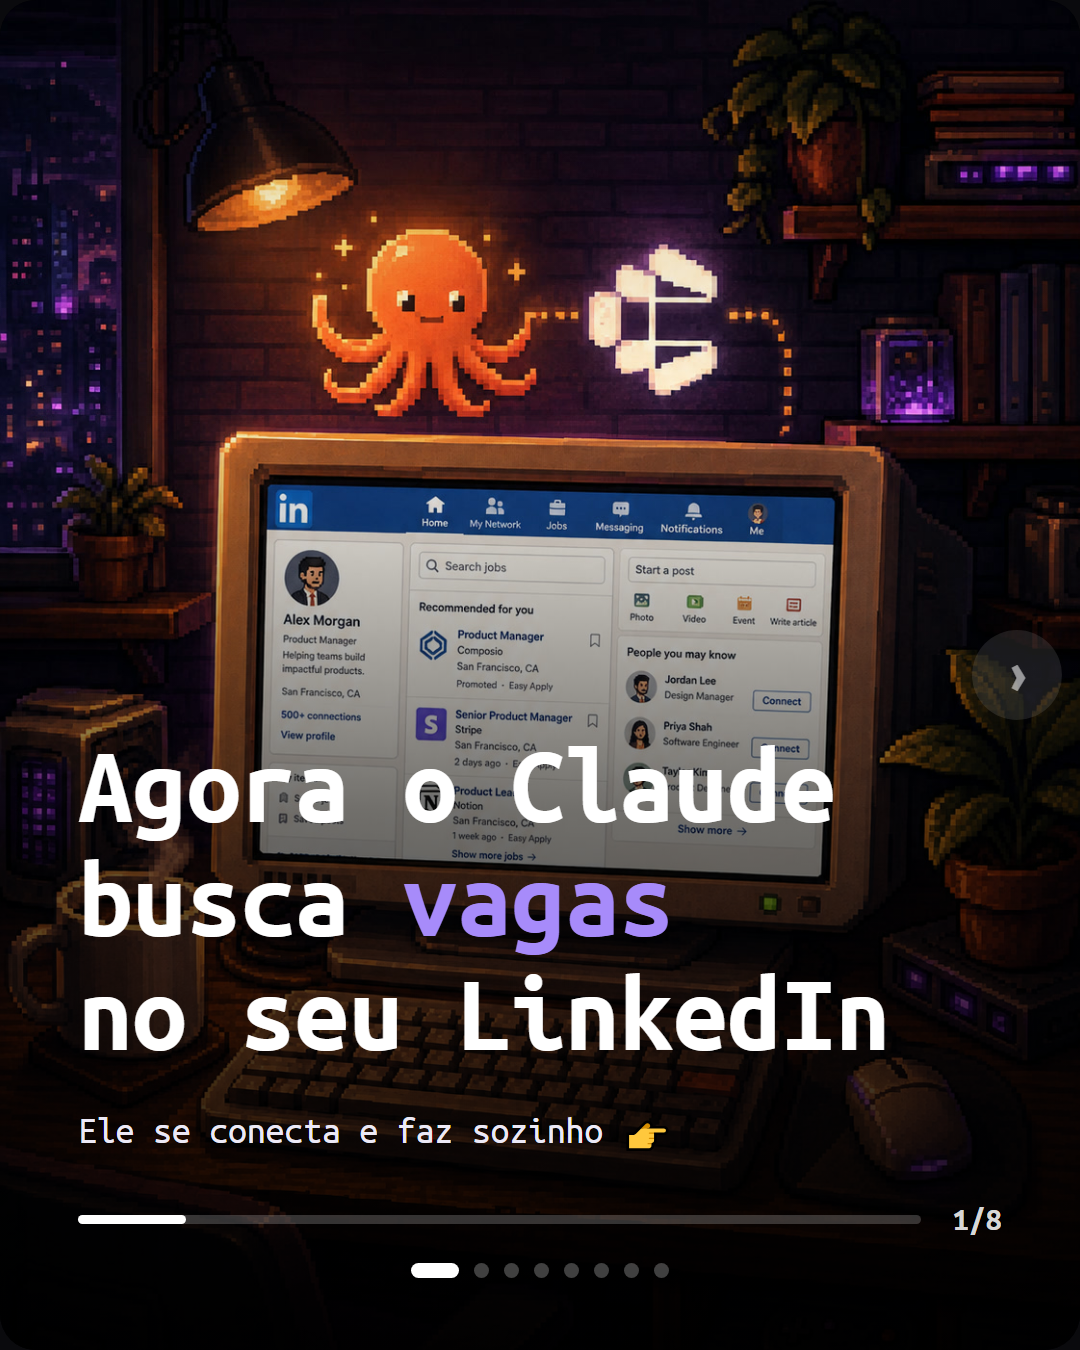
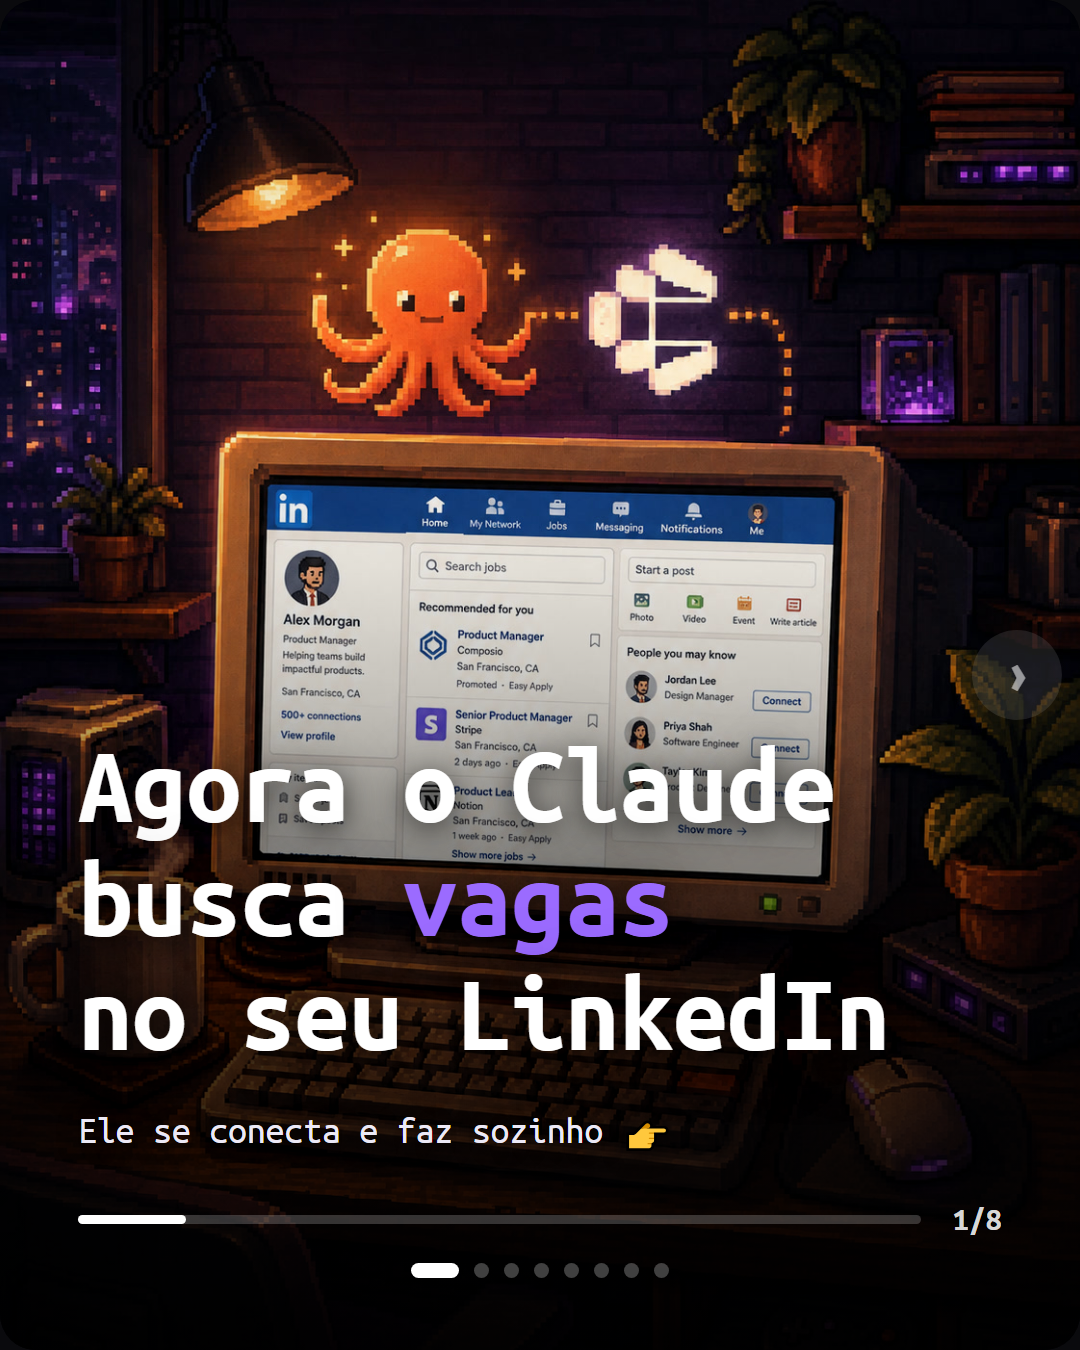
fix(dobro): capa legivel sobre arte clara (scrim em rampa + destaque mais forte)
O scrim da capa tinha poucas paradas e marcava a faixa onde o preto entrava,
o que aparecia em arte de fundo clara. Rampa mais longa, com paradas proximas,
e o rodape segue escuro o bastante pro texto branco.

O lilas do destaque tambem sumia sobre arte clara: na capa ele passa a usar um
roxo mais forte, com sombra atras do h1 e do corpo.

Inclui as capas re-renderizadas e a capa nova das 4 skills (v1 guardada ao lado).

diff --git a/apps/dobro/server/carrossel/template.ts b/apps/dobro/server/carrossel/template.ts
@@ -18,7 +18,10 @@ const CSS = `
   .slide{width:360px;height:450px;position:relative;overflow:hidden;border-radius:12px;display:flex;flex-direction:column;padding:24px 26px;}
   .dark{background:#191426;} .light{background:#eae7f5;} .purple{background:#7c46d6;} .photo{background:#000;}
   .imgbg{position:absolute;inset:0;background-size:cover;background-position:center 26%;}
-  .scrim{position:absolute;inset:0;background:linear-gradient(to bottom,rgba(0,0,0,.12) 0%,rgba(0,0,0,0) 30%,rgba(0,0,0,.55) 60%,rgba(0,0,0,.93) 100%);}
+  /* escurecido da capa: rampa longa e com paradas próximas, pra não marcar a
+     faixa onde o preto entra (aparecia em arte de fundo claro). O rodapé segue
+     escuro o bastante pro texto branco. */
+  .scrim{position:absolute;inset:0;background:linear-gradient(to bottom,rgba(0,0,0,.10) 0%,rgba(0,0,0,0) 26%,rgba(0,0,0,.09) 42%,rgba(0,0,0,.26) 55%,rgba(0,0,0,.52) 68%,rgba(0,0,0,.76) 82%,rgba(0,0,0,.90) 100%);}
   .topbleed{position:absolute;top:0;left:0;right:0;height:120px;background-size:cover;background-position:center 20%;opacity:.28;filter:blur(1px);
     -webkit-mask-image:linear-gradient(to bottom,#000 0%,#000 30%,transparent 100%);mask-image:linear-gradient(to bottom,#000 0%,#000 30%,transparent 100%);}
   .eyebrow{font-size:10.5px;font-weight:700;letter-spacing:.2em;text-transform:uppercase;margin-bottom:10px;position:relative;z-index:2;}
@@ -27,8 +30,12 @@ const CSS = `
   .dark h1,.photo h1,.purple h1{color:#fff;} .light h1{color:#1a1330;}
   .hl{color:#a78bfa;} .light .hl{color:#6d3ad6;}
   .cta .hl{color:#f5c518;}
-  .cover h1{font-size:36.8px;line-height:1.04;}
+  .cover h1{font-size:36.8px;line-height:1.04;text-shadow:0 2px 9px rgba(0,0,0,.6),0 0 22px rgba(0,0,0,.5);}
   .cover.tsm h1{font-size:25.8px;}
+  /* destaque da capa: roxo mais forte que o .hl padrão + a sombra do h1 por trás.
+     O lilás claro sumia quando a arte de fundo era clara. */
+  .cover .hl{color:#9b6bff;}
+  .cover .body{text-shadow:0 1px 7px rgba(0,0,0,.65);}
   .body{font-size:12.5px;line-height:1.55;margin-top:10px;position:relative;z-index:2;}
   .dark .body{color:#b8b2cc;} .light .body{color:#6f6885;} .photo .body,.purple .body{color:#ece9f6;}
   .top{position:relative;z-index:2;} .grow{flex:1;}
